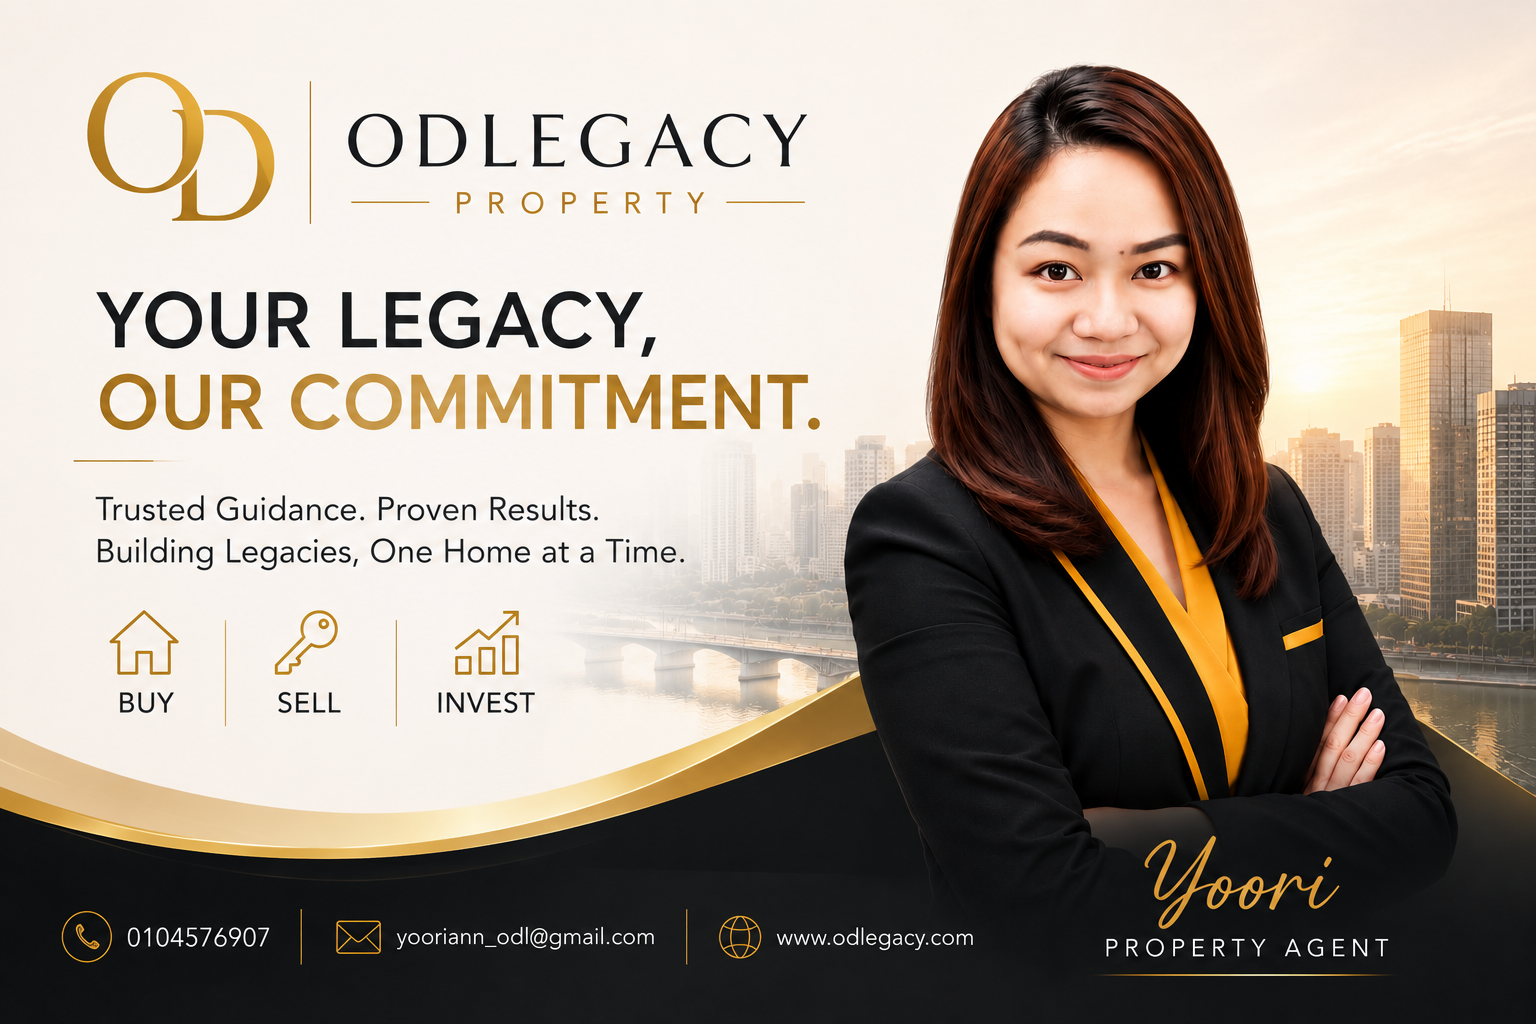
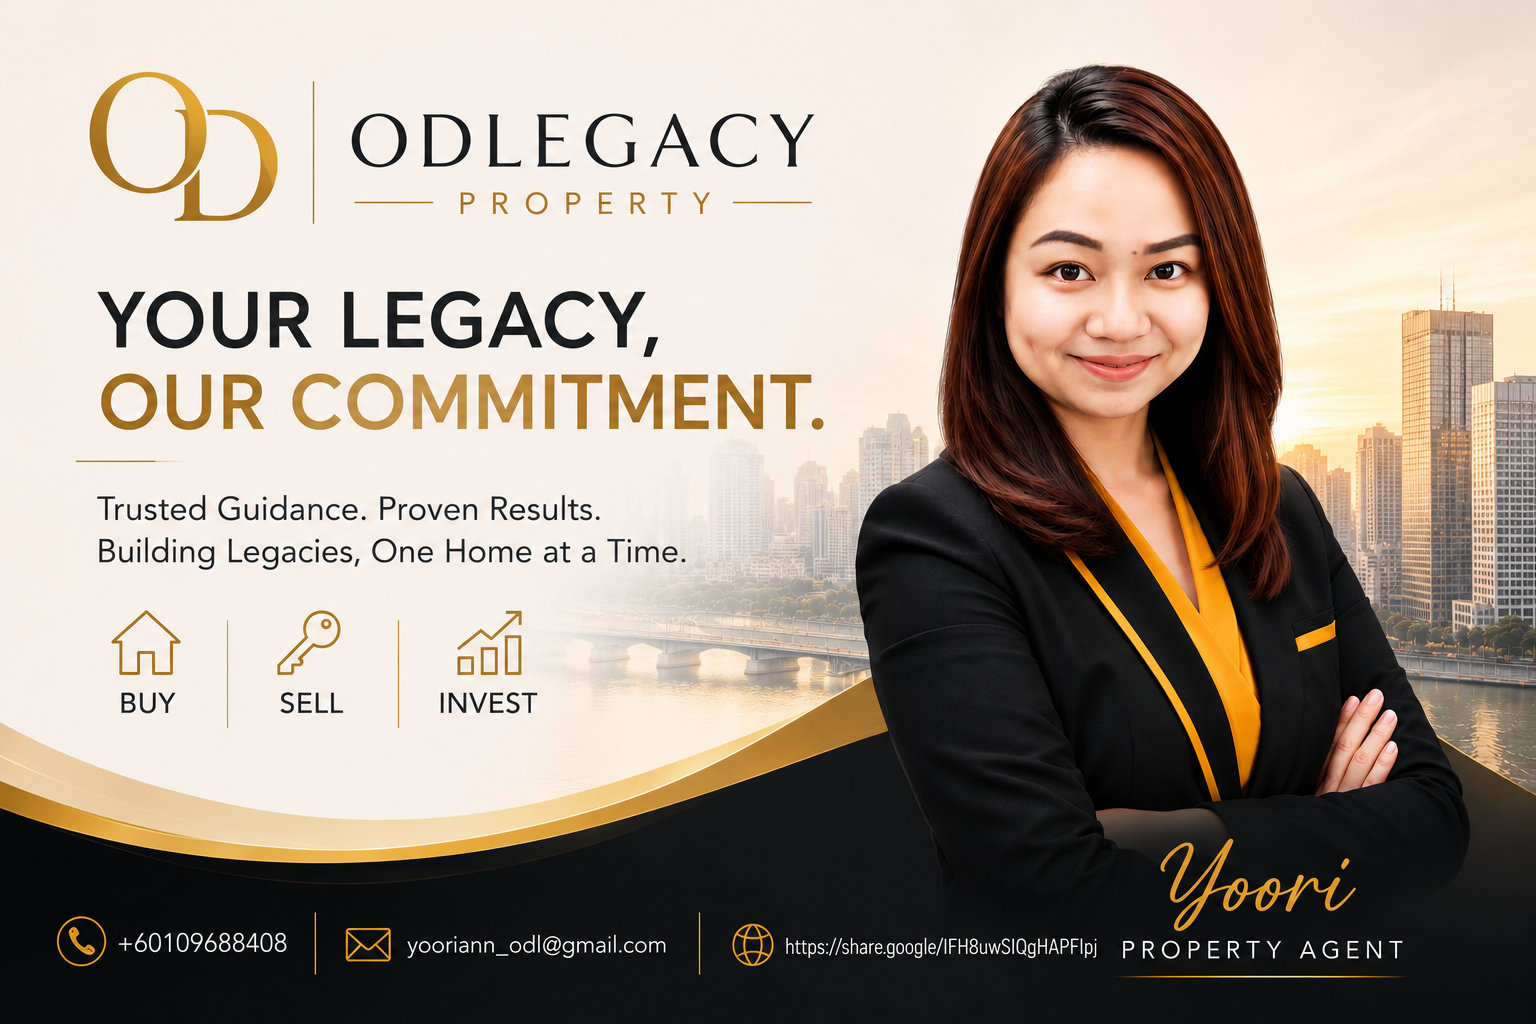
add wa

diff --git a/mobile/YooriODLegacy/src/App.tsx b/mobile/YooriODLegacy/src/App.tsx
@@ -91,6 +91,11 @@ export default function App() {
               {/* CONTACT */}
               <div className="mt-10 flex flex-col md:flex-row justify-center gap-4">
 
+               <a
+                 href="https://wa.me/60109688408"
+                 target="_blank"
+                 rel="noopener noreferrer"
+               >
                 <button
                   className="
                     bg-yellow-400
@@ -105,7 +110,7 @@ export default function App() {
                 >
                   WhatsApp Yoori Ann
                 </button>
-
+               </a>
                 <button
                   className="
                     border border-yellow-400/40

diff --git a/mobile/YooriODLegacy/src/components/PropertyCard.tsx b/mobile/YooriODLegacy/src/components/PropertyCard.tsx
@@ -237,7 +237,7 @@ export default function PropertyCard({
 
               {/* WHATSAPP */}
               <a
-                href="https://wa.me/60104576907"
+                href="https://wa.me/+60109688408"
                 target="_blank"
                 className="inline-flex items-center gap-2 bg-green-500 hover:bg-green-600 text-white px-5 py-2 rounded-full mt-4"
               >
